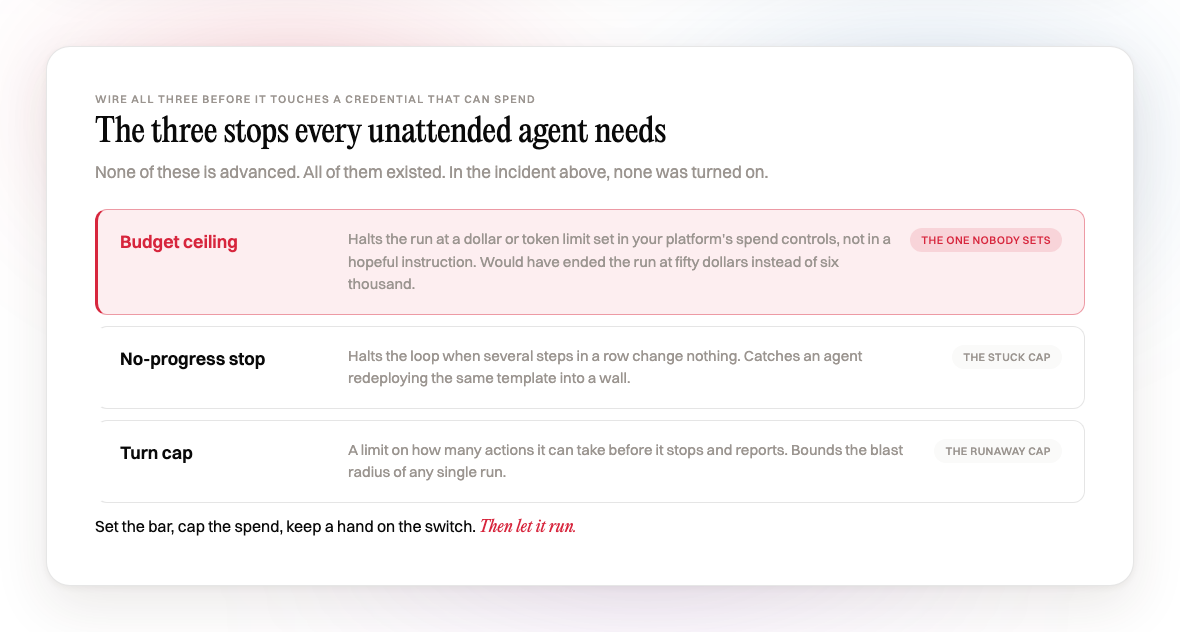
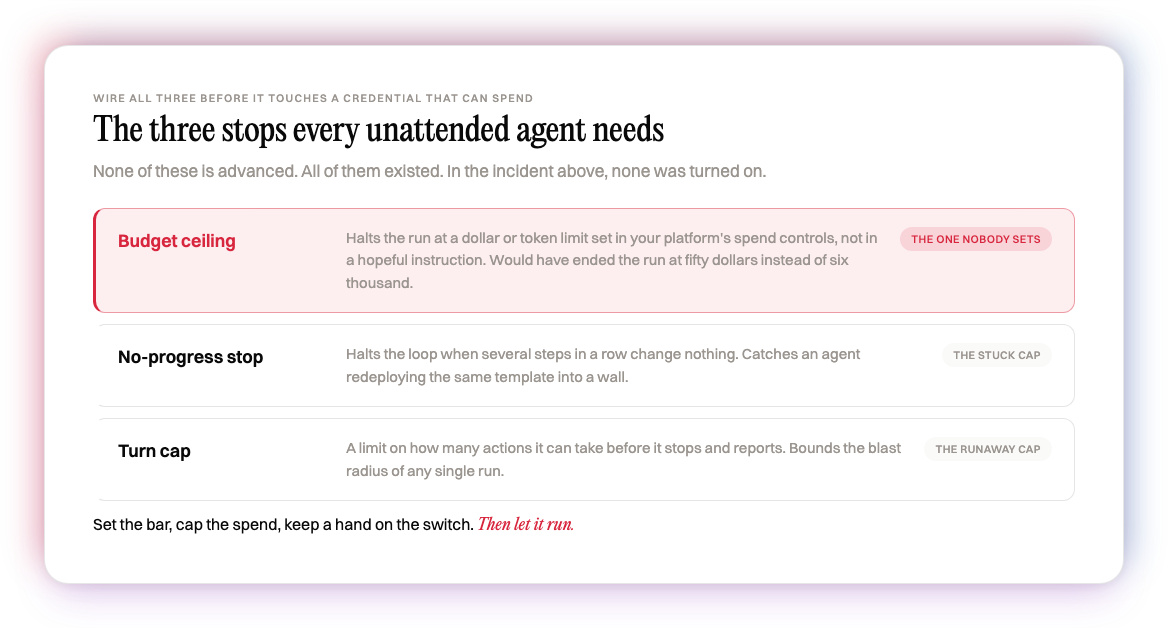
Archive diagram-stops.png from content: Agent Credit Card, tight snug-glow cards (no margin overflow): diagram-stops.png

diff --git a/projects/content/INDEX.md b/projects/content/INDEX.md
@@ -311,3 +311,4 @@
 | 2026-06-16 | reports | [substack-version.html](reports/substack-version.html) | Agent Credit Card article, static hero (reverted from animation): substack-version.html | /Users/marcokotrotsos/PERSONAL/Content/drafts/agent-credit-card/substack-version.html |
 | 2026-06-16 | images | [hero.png](images/hero.png) | Agent Credit Card, tight snug-glow cards (no margin overflow): hero.png | /Users/marcokotrotsos/PERSONAL/Content/drafts/agent-credit-card/hero.png |
 | 2026-06-16 | images | [diagram-escalation.png](images/diagram-escalation.png) | Agent Credit Card, tight snug-glow cards (no margin overflow): diagram-escalation.png | /Users/marcokotrotsos/PERSONAL/Content/drafts/agent-credit-card/diagram-escalation.png |
+| 2026-06-16 | images | [diagram-stops.png](images/diagram-stops.png) | Agent Credit Card, tight snug-glow cards (no margin overflow): diagram-stops.png | /Users/marcokotrotsos/PERSONAL/Content/drafts/agent-credit-card/diagram-stops.png |

diff --git a/INDEX.md b/INDEX.md
@@ -571,3 +571,4 @@
 | 2026-06-16 | content | reports | [substack-version.html](projects/content/reports/substack-version.html) | Agent Credit Card article, static hero (reverted from animation): substack-version.html |
 | 2026-06-16 | content | images | [hero.png](projects/content/images/hero.png) | Agent Credit Card, tight snug-glow cards (no margin overflow): hero.png |
 | 2026-06-16 | content | images | [diagram-escalation.png](projects/content/images/diagram-escalation.png) | Agent Credit Card, tight snug-glow cards (no margin overflow): diagram-escalation.png |
+| 2026-06-16 | content | images | [diagram-stops.png](projects/content/images/diagram-stops.png) | Agent Credit Card, tight snug-glow cards (no margin overflow): diagram-stops.png |
